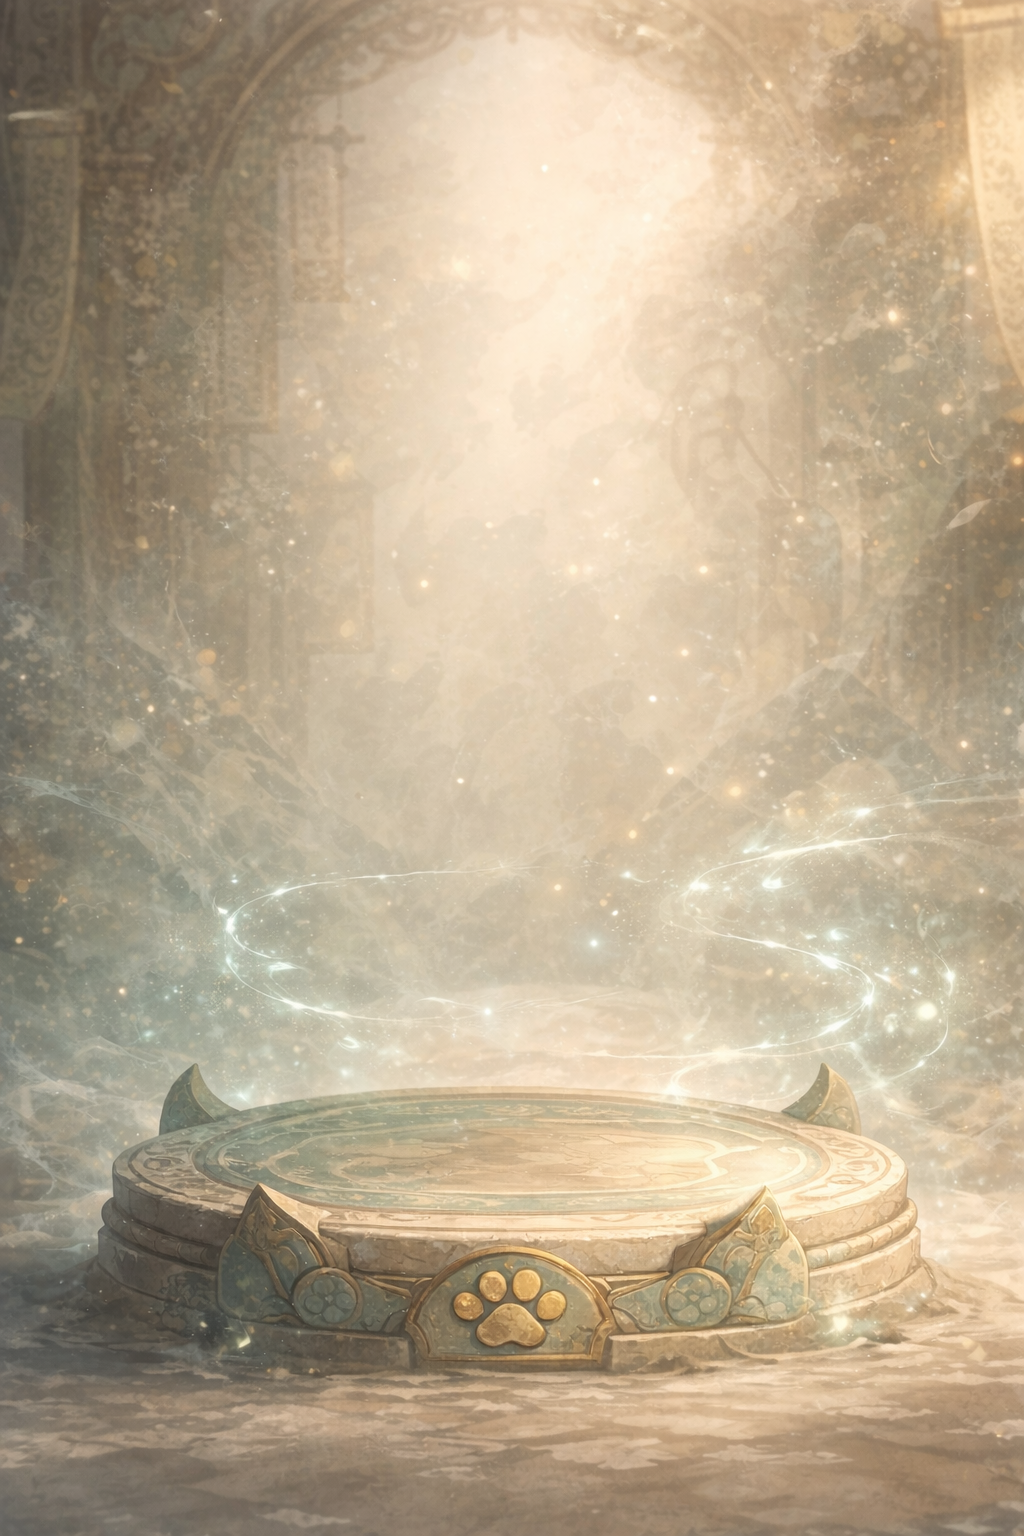
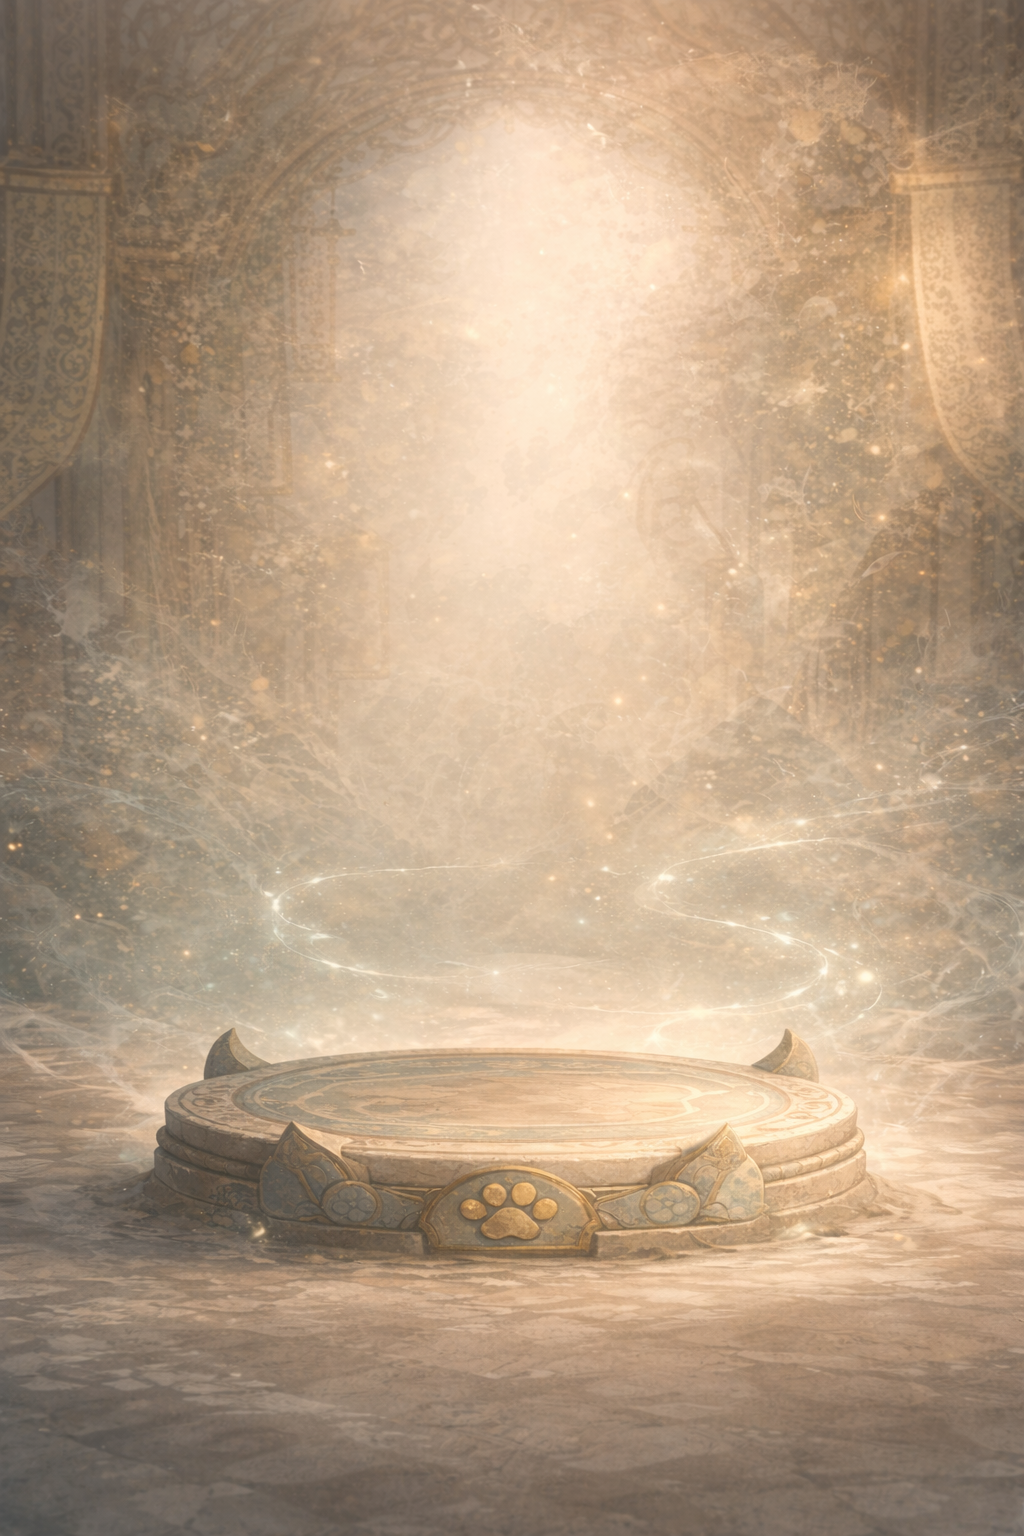
更新舞台背景圖、背景位置再下移

diff --git a/css/profile-celadon.css b/css/profile-celadon.css
@@ -193,7 +193,7 @@ body.profile-page {
   align-items: center;
   justify-content: center;
   background:
-    url('../assets/profile/bg_avatar_stage.png') center 95% / cover no-repeat,
+    url('../assets/profile/bg_avatar_stage.png') center 105% / cover no-repeat,
     linear-gradient(180deg, #f8f4eb 0%, #e8e2d4 100%);
   border: 1.5px solid var(--p-border);
   border-radius: 20px;
